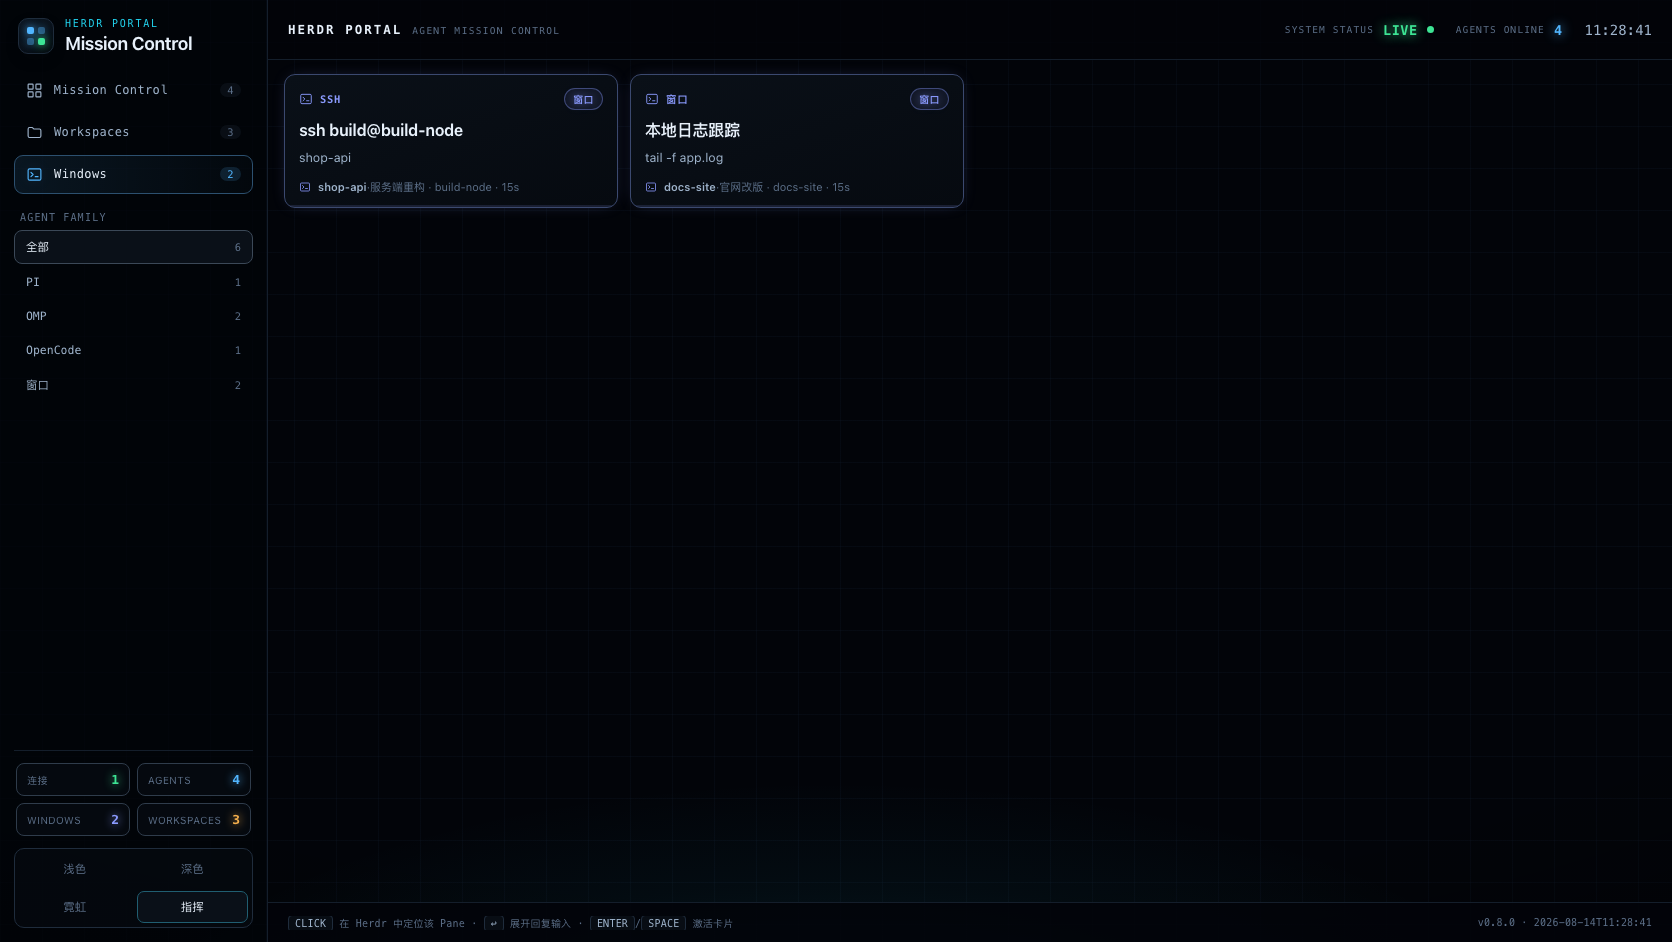
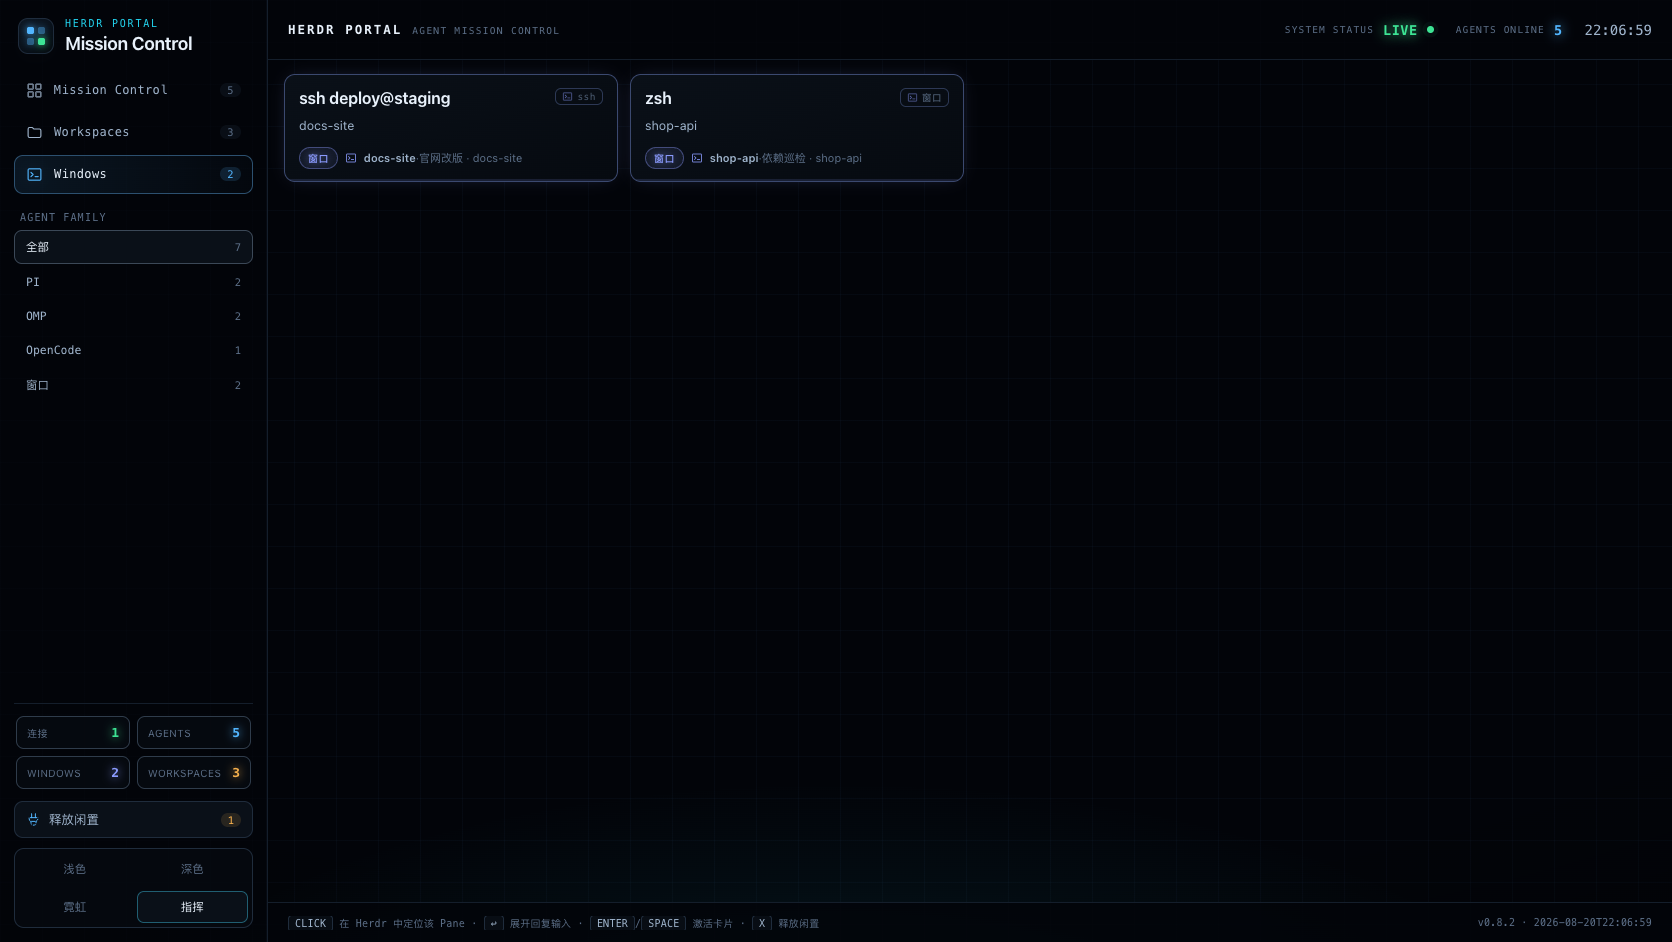
docs: 用当前界面重拍全部网页截图，新增释放闲置面板图
- web-board / web-windows / web-reply 重拍：命令栏多了释放闲置入口与计数，卡片为新版布局
- 新增 web-cleanup.png：释放闲置面板（阈值、默认勾选策略、受保护项）
- banner.png 用当前开场动画叠在真实看板上重合成
- 数据来自伪造的 herdr snapshot（shop-api / docs-site / data-pipeline），collect() 与 cleanup_scan() 走真实代码路径
- README / README.zh-CN 预览段补图注与新图

diff --git a/README.md b/README.md
@@ -25,7 +25,7 @@ No window switching, no mouse hunt, no "which tab was that agent in again". `Ctr
 
 ## Preview
 
-**Web board** (default *command* theme): left command rail, system status bar, red/blue/green status columns, terminal status strip. The "waiting" column hides itself when nothing is blocked.
+**Web board** (default *command* theme, redacted demo data): left command rail (view switch, agent-family filter, reclaim entry), system status bar, red/blue/green status columns, terminal status strip. The "waiting" column hides itself when nothing is blocked.
 
 ![web board](assets/web-board.png)
 
@@ -36,6 +36,10 @@ No window switching, no mouse hunt, no "which tab was that agent in again". `Ctr
 **Window view**: plain SSH / shell terminals live in their own view instead of crowding the agent board.
 
 ![web windows](assets/web-windows.png)
+
+**Reclaim from the web**: candidates are panes quieter than the threshold — idle shells come pre-ticked, idle agents are left for you to confirm, and protected panes are folded away with the reason they are protected.
+
+![web cleanup](assets/web-cleanup.png)
 
 **TUI board** (real curses render, redacted demo data): nothing is blocked here, so the board collapses to two columns — *running* and *ready*. The header carries the installed version plus five clickable actions (new tab / new pane / rename / reclaim / the update button that only shows when you are behind), with the real selection state, detail bar, and key hints below.
 

diff --git a/README.zh-CN.md b/README.zh-CN.md
@@ -25,7 +25,7 @@ Enter            跳到该 pane —— 看板在跳转的同时自己关掉
 
 ## 预览
 
-**网页看板**（默认指挥主题）：复刻 Mission Control 参考图的左侧命令栏、系统状态顶栏、红/蓝/绿状态列与终端状态条；待确认列为空时仍会自动隐藏。
+**网页看板**（默认指挥主题 · 脱敏演示数据）：左侧命令栏（含视图切换、Agent 家族过滤、释放闲置入口）、系统状态顶栏、红/蓝/绿三列与终端状态条；待确认列为空时仍会自动隐藏。
 
 ![web board](assets/web-board.png)
 
@@ -36,6 +36,10 @@ Enter            跳到该 pane —— 看板在跳转的同时自己关掉
 **窗口视图**：SSH / Shell 普通终端在独立视图里，不占用主看板。
 
 ![web windows](assets/web-windows.png)
+
+**释放闲置（网页端）**：列出静默超过阈值的候选 Pane，静止 Shell 默认勾选、空闲 Agent 交给你确认，受保护的项目单独收起说明原因。
+
+![web cleanup](assets/web-cleanup.png)
 
 **TUI 看板**（真实 TUI 渲染 · 脱敏演示数据）：图中待确认为空，因此自动收起为「执行中 / 已就绪」两列；表头带当前版本、五个可点动作入口（新 Tab / 新 Pane / 重命名 / 释放闲置 / 有新版时的更新按钮），下方是真实选中态、详情栏与快捷键提示。
 
